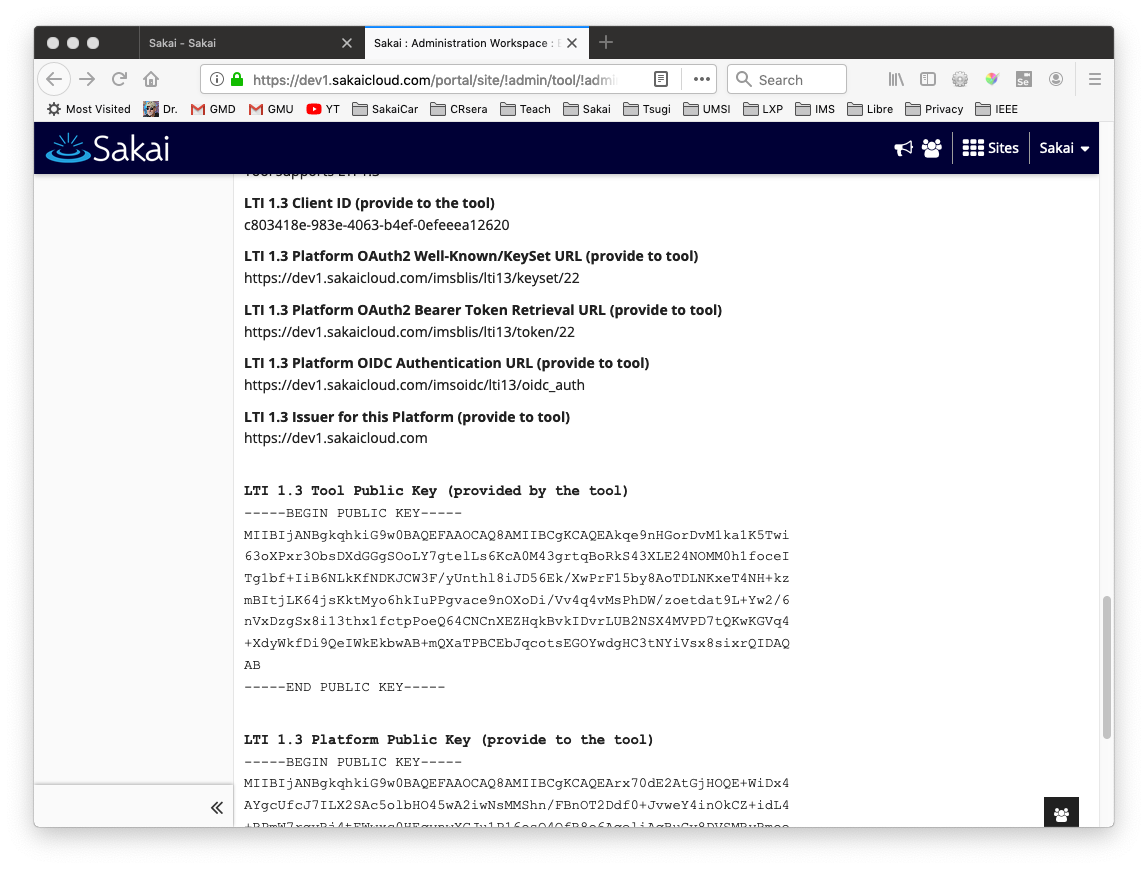
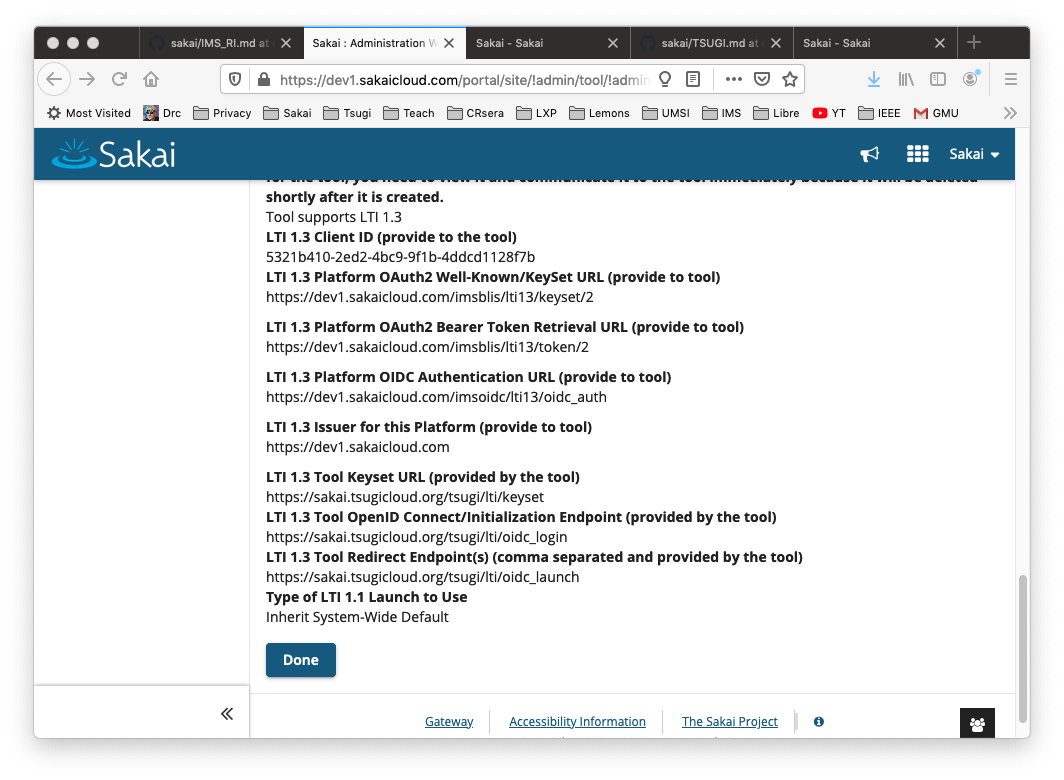
More test plan updates

Changed region(s): [[0.031, 0.0308, 0.9925, 0.9538]]

diff --git a/basiclti/docs/TSUGI.md b/basiclti/docs/TSUGI.md
@@ -62,7 +62,7 @@ with the following values (watch for extra spaces while pasting and slashes matt
     Check: Allow tool title to be changed
     Use "LTI Content Item / Deep Link Endpoint" from Tsugi as Launch URL in Sakai
     Check: Allow launch URL to be changed
-    Set the key to something other than 12345
+    Set the key to something *other than* 12345 - like 8675309
     Set the secret to be 'secret'
     Check: Send Names, Send Email, All services
     Un-Check: Allow the tool to be launched as a link
@@ -72,6 +72,7 @@ with the following values (watch for extra spaces while pasting and slashes matt
     Check: Supports LTI 1.3
     Paste in the LTI 1.3 OpenID Connect Endpoint from Tsugi
     Paste in the LTI 1.3 Tool Redirect Endpoint from Tsugi
+    Paste in the LTI 1.3 Tool Keyset URL (use the one without the issues parameter)
     Launch type - Inherit
 
 Press `Save` to create the Sakai end of the Tool security contract.  Then in Sakai
@@ -91,8 +92,8 @@ and copy values from the Sakai tool view back into Tsugi:
     LTI 1.3 Platform OAuth2 Bearer Token Retrieval URL
     Leave LTI 1.3 Platform OAuth2 Bearer Token Audience Value blank
     LTI 1.3 Platform OIDC Authentication URL
-    Copy the Tool Public Key from Sakai to Tsugi
-    Copy the Tool Private Key from Sakai to Tsugi
+    Leave the Tool Public Key blank - this is legacy now
+    Leave the Tool Private Key blank - this is legacy now
 
 Add the Tool in Tsugi.
 (<a href="IMG_TSUGI/03-Tsugi-Issuer-Added.png" target="_blank">Image</a>)
@@ -100,7 +101,7 @@ Add the Tool in Tsugi.
 Then we need to add a Tenant in Tsugi.  In the `Manage Keys` area of Tsugi
 admin, select `Tenant Keys` and `Insert New Key`.  Fill in the data:
 
-    LTI 1.1: OAuth Consumer Key (should not be 12345)
+    LTI 1.1: OAuth Consumer Key (i.e. not 12345 - like 8675309)
     LTI 1.1: OAuth Consumer Secret  (should be 'secret')
     LTI 1.3: Deployment ID - set to 1
     Pick your issuer from the drop down.
@@ -146,5 +147,6 @@ LTI 1.1 data.  When you continue, it should launch again into LMSTest.
 
 Look under "Home" / "Tsugi User Object" and the User's id should be the same as in the LTI Advantage launch.
 
-If you go into "Names and Roles" / "Debug Log" it should complain about missing bits.
+If you go into "Names and Roles" / "Debug Log" it should complain about missing bits because that is LTI
+Advantage only.
 
